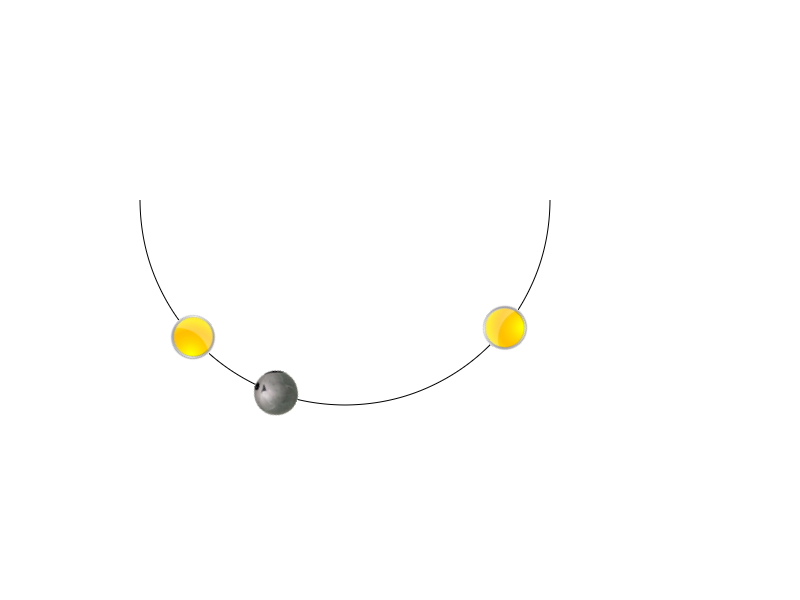
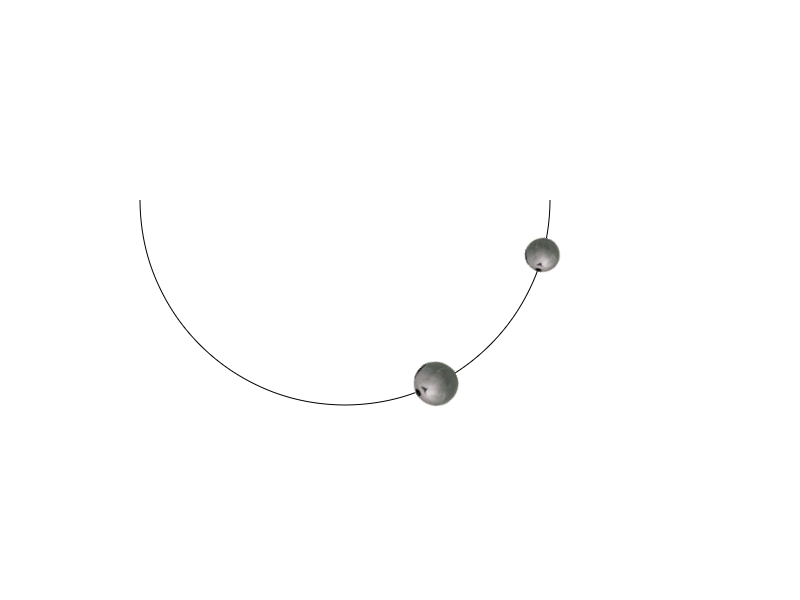
super changes to push other nodes

diff --git a/js/main.js b/js/main.js
@@ -69,24 +69,21 @@ var Creator = function(options) {
 	}.bind(this);
 
 	this.onExportToCanvas = function() {
-		var canvas 	= $('#canvas');
-		var img 	= canvas[0].toDataURL('image/png');
-
-		$('#preview').css('display', 'block');
-		$('#preview').attr('src', img);
-
-		var token = Math.random();
+		var canvas = $('#canvas');
+		var img    = canvas[0].toDataURL('image/png');
+		var token  = Math.random();                                                 
 
 		$.post('ajax.php', {'image' : img, 'token' : token}, function(response) {});
-
-		window.location.href = 'ajax.php?token=' + token;
+		window.open('ajax.php?token=' + token);
 	};
 };
 
 var PaperHelper = function(options) {
 	this.nodeCounter= 1;
 	this.pathLength = 0;
-	this.isDraged 	= false;
+
+	this.dragDirect = null;
+	this.dragSize	= {};
 
 	this.nodes		= [];
 	this.current	= null;
@@ -112,8 +109,7 @@ var PaperHelper = function(options) {
 
 		this.pathLength 	  = parseInt(this.path.length);
 
-		this.tool = new Tool();
-
+		this.tool             = new Tool();
 		this.tool.onMouseDrag = this.onMouseDrag.bind(this);
 		this.tool.onMouseUp   = this.onMouseUp.bind(this);
 		this.tool.onMouseDown = this.onMouseDown.bind(this);
@@ -121,42 +117,124 @@ var PaperHelper = function(options) {
 		view.draw();
 	},
 
-	// var path = new Path.RegularPolygon(new Point(300, 170), 10, 150);
-	// path.strokeColor = 'black';
 	//on mouse drag - move node if we choose one
 	this.onMouseDrag = function(event) {
 		if (this.current !== null) {
-			this.isDraged = true;
-
+			//Make direction and size of drag global for helper
+			this.setDragSize(event);
+			this.setDragDirection(event);
+			
+			//Prepare move params
 			var p = this.path.getNearestPoint(event.middlePoint);
 
-			//calculate tangens before move
-			var offset         = this.path.getNearestLocation(this.current.position).offset;
-			var tangent_before = this.path.getTangentAt(offset);
-
-			//calculate tangens after move
-			var offset        = this.path.getNearestLocation(p).offset;
-			var tangent_after = this.path.getTangentAt(offset);
-
-			//move
-			if (offset > this.left_max && offset < this.right_max) {
-				this.current.position 	= p;
-				this.current.nodeOffset = offset;
-
-				//rotate node
-				this.current.rotate(tangent_after.angle - tangent_before.angle);
-			};
-
+			var paramsBefore = this.calcMoveParams(null, this.current.nodeOffset);
+			var paramsAfter  = this.calcMoveParams(p);
+			
+			//And try to move
+			this.checkAndMove({
+				position : p,
+			
+				offset  : paramsAfter.offset,  
+				tangent : paramsAfter.tangent.angle - paramsBefore.tangent.angle,
+				node 	: this.current
+			});
 		}
 	};
 
+	this.moveAnotherNode = function(node) {
+		if(node !== null) {
+			var positionPoint = { x : node.position.x, y : node.position.y };
+			
+			if(this.dragDirect == 'left') {
+				positionPoint.x = positionPoint.x - this.dragSize.x;
+			} else {
+				positionPoint.y = positionPoint.y - this.dragSize.y;
+			}
+
+			var point 		 = new Point(positionPoint.x, positionPoint.y);
+			var paramsBefore = this.calcMoveParams(null, node.nodeOffset);
+			var paramsAfter  = this.calcMoveParams(point);
+
+			var moveParams = {
+				position : point,
+
+				offset  : paramsAfter.offset,
+				tangent : paramsAfter.tangent.angle - paramsBefore.tangent.angle,
+				node 	: node,
+
+				left 	: this.left_max,
+				right 	: this.right_max
+			};
+
+			// this.checkAndMove(movePrams);
+		}
+	};
+
+	this.findNearestNode = function(offset, currentNodeNumber) {
+		var nearest = { nodeOffset : 0 , default : true };
+
+	    for (var i = this.nodes.length - 1; i >= 0; i--) {
+	    	if(this.nodes[i].number !== currentNodeNumber) {
+	    		if(this.dragDirect == 'left') {
+		    		if((this.nodes[i].nodeOffset < offset) && (nearest.nodeOffset > this.nodes[i].nodeOffset)) {
+		    			nearest = this.nodes[i];
+		    		}
+		    	}
+		    	else {
+	    			if((this.nodes[i].nodeOffset > offset) && (nearest.nodeOffset < this.nodes[i].nodeOffset)) {
+	    				nearest = this.nodes[i];
+	    			}
+		    	}	
+	    	}
+	    }
+
+	    return (typeof nearest.default !== "undefined") ? null : nearest;
+	};
+
+	this.checkAndMove = function(params) {
+		if (params.offset > params.left && params.offset < params.right) {
+			params.node.position 	= params.position;
+			params.node.nodeOffset 	= params.offset;
+
+			//rotate node
+			params.node.rotate(params.tangent);
+		}
+		else {
+			this.moveAnotherNode(
+				this.findNearestNode(params.offset, params.node.number)
+			);
+		}
+	};
+
+	this.setDragSize = function(event) {
+		this.dragSize.x = event.tool._lastPoint.x - event.tool._point.x;
+		if(this.dragSize.x < 0) { this.dragSize.x = this.dragSize.x * (-1); }
+
+		this.dragSize.y = event.tool._lastPoint.y - event.tool._point.y;
+		if(this.dragSize.y < 0) { this.dragSize.y = this.dragSize.y * (-1); }
+	};
+
+	this.setDragDirection = function(event) {
+		//if last point x lower than point (start point), we are movin left
+		this.dragDirect = ((event.tool._lastPoint.x - event.tool._point.x) < 0) ? 'left' : 'right';
+	};
+
+	this.calcMoveParams = function(position, offset) {
+		var params = {};
+		params.offset =  (typeof offset === "undefined")  ? this.path.getNearestLocation(position).offset : offset;
+		params.tangent = this.path.getTangentAt(params.offset);
+
+		return params;
+	};
+
+
 	//clear current node on mouse release
 	this.onMouseUp = function(event) {
-		if(!this.isDraged) {
+		if(this.dragDirect == null) {
 			this.removeNode();
 		}
 
-		this.isDraged 	= false;
+		this.dragDirect 	= null;
 		this.current 	= null;
 	};
 
@@ -170,7 +248,7 @@ var PaperHelper = function(options) {
 	    if(this.current == null) {
 	    	return false;
 	    }
-	    
+
 	    var current_offset = this.current.nodeOffset;
 
 	    //ok lets try to find two nearest points before drag to detect collision
@@ -231,8 +309,8 @@ var PaperHelper = function(options) {
  		var tangent = this.path.getTangentAt(offset);
  		raster.rotate(tangent.angle);
 
- 		raster.number = this.nodeCounter;
- 		this.nodeCounter += 1;
+			raster.number    = this.nodeCounter;
+			this.nodeCounter += 1;
 
 		this.nodes.push(raster);
 	};

diff --git a/index.html b/index.html
@@ -22,6 +22,5 @@
 		<hr>
 		<div id="to-png-button" class="button">export to png</div>
 	</div>
-	<img src="" id="preview" />
 </body>
 </html>
